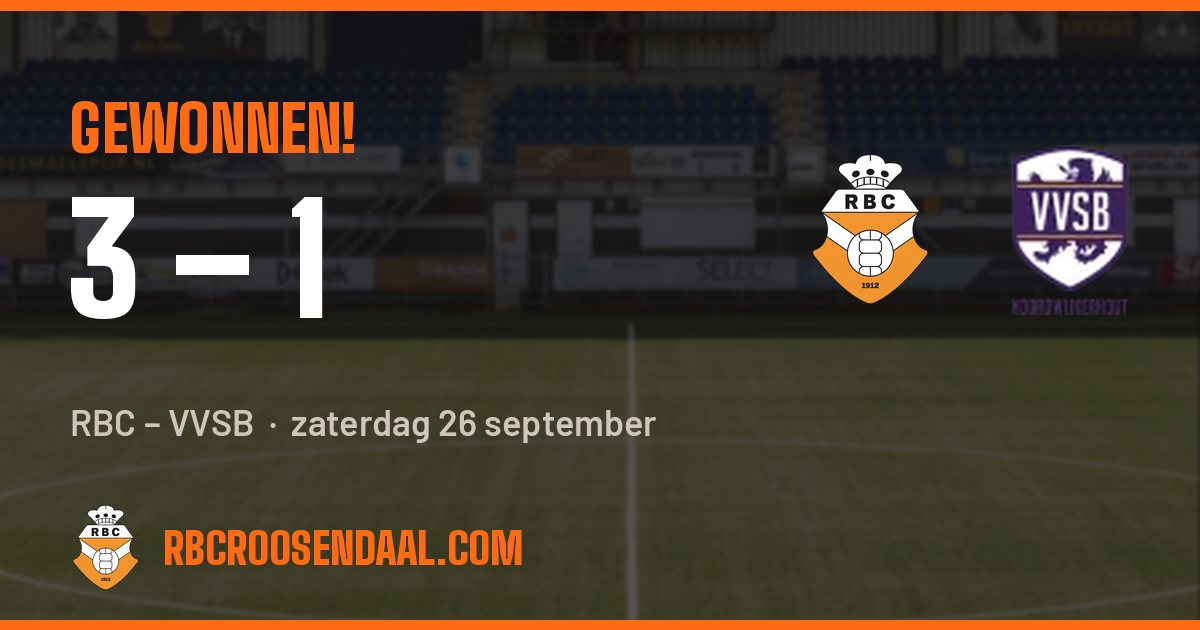
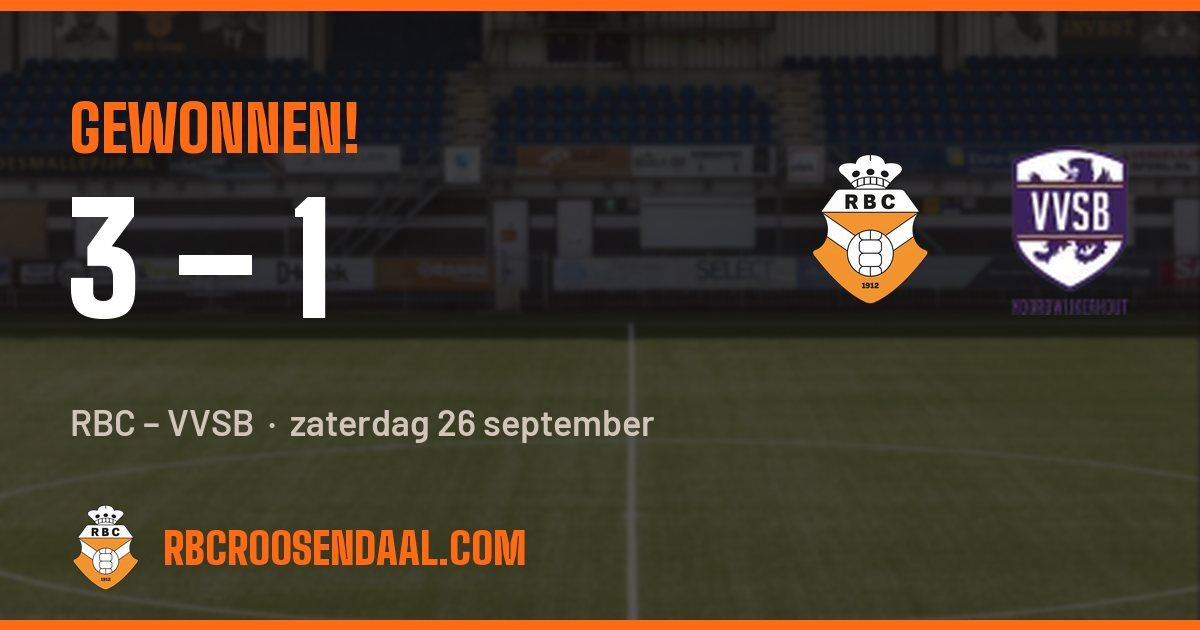
Voorvertoning alleen opnieuw tekenen als de inhoud verandert
Mac en GitHub maken van hetzelfde plaatje net andere bytes, waardoor ze
elkaars versie steeds vervingen. Een sleutel met wedstrijd en soort
bepaalt nu of er opnieuw getekend wordt.

diff --git a/tools/haal-competitie.py b/tools/haal-competitie.py
@@ -409,6 +409,13 @@ def maak_voorvertoning(seizoen):
     else:
         return
     basis = os.path.dirname(UIT)
+    # Alleen opnieuw tekenen als de inhoud verandert. Twee computers maken
+    # van hetzelfde plaatje net andere bytes; zonder deze sleutel zou de
+    # bot het plaatje steeds "verbeteren".
+    sleutel = json.dumps([soort, duel, vandaag.isoformat() if soort == 'volgende' and als_datum(duel) == vandaag else ''], sort_keys=True)
+    sleutel_pad = OG + '.sleutel'
+    if os.path.exists(OG) and os.path.exists(sleutel_pad) and open(sleutel_pad).read() == sleutel:
+        return
     kop = lambda n, w='Black': (lambda f: (f.set_variation_by_name(w), f)[1])(ImageFont.truetype(os.path.join(FONTS, 'BigShouldersDisplay.ttf'), n))
     B, H = 1200, 630
     doek = Image.open(os.path.join(basis, 'atik.png')).convert('RGB')
@@ -460,9 +467,8 @@ def maak_voorvertoning(seizoen):
     crest = crest.resize((round(crest.width * 96 / crest.height), 96), Image.LANCZOS)
     doek.paste(crest, (70, 500), crest)
     t.text((70 + crest.width + 22, 548), 'RBCROOSENDAAL.COM', font=kop(44), fill=(255, 106, 19), anchor='lm')
-    buf = BytesIO(); doek.save(buf, 'JPEG', quality=84, optimize=True, progressive=True)
-    if not os.path.exists(OG) or open(OG, 'rb').read() != buf.getvalue():
-        open(OG, 'wb').write(buf.getvalue())
+    doek.save(OG, 'JPEG', quality=84, optimize=True, progressive=True)
+    open(sleutel_pad, 'w').write(sleutel)
 
 
 def lees_team(oud_team):
